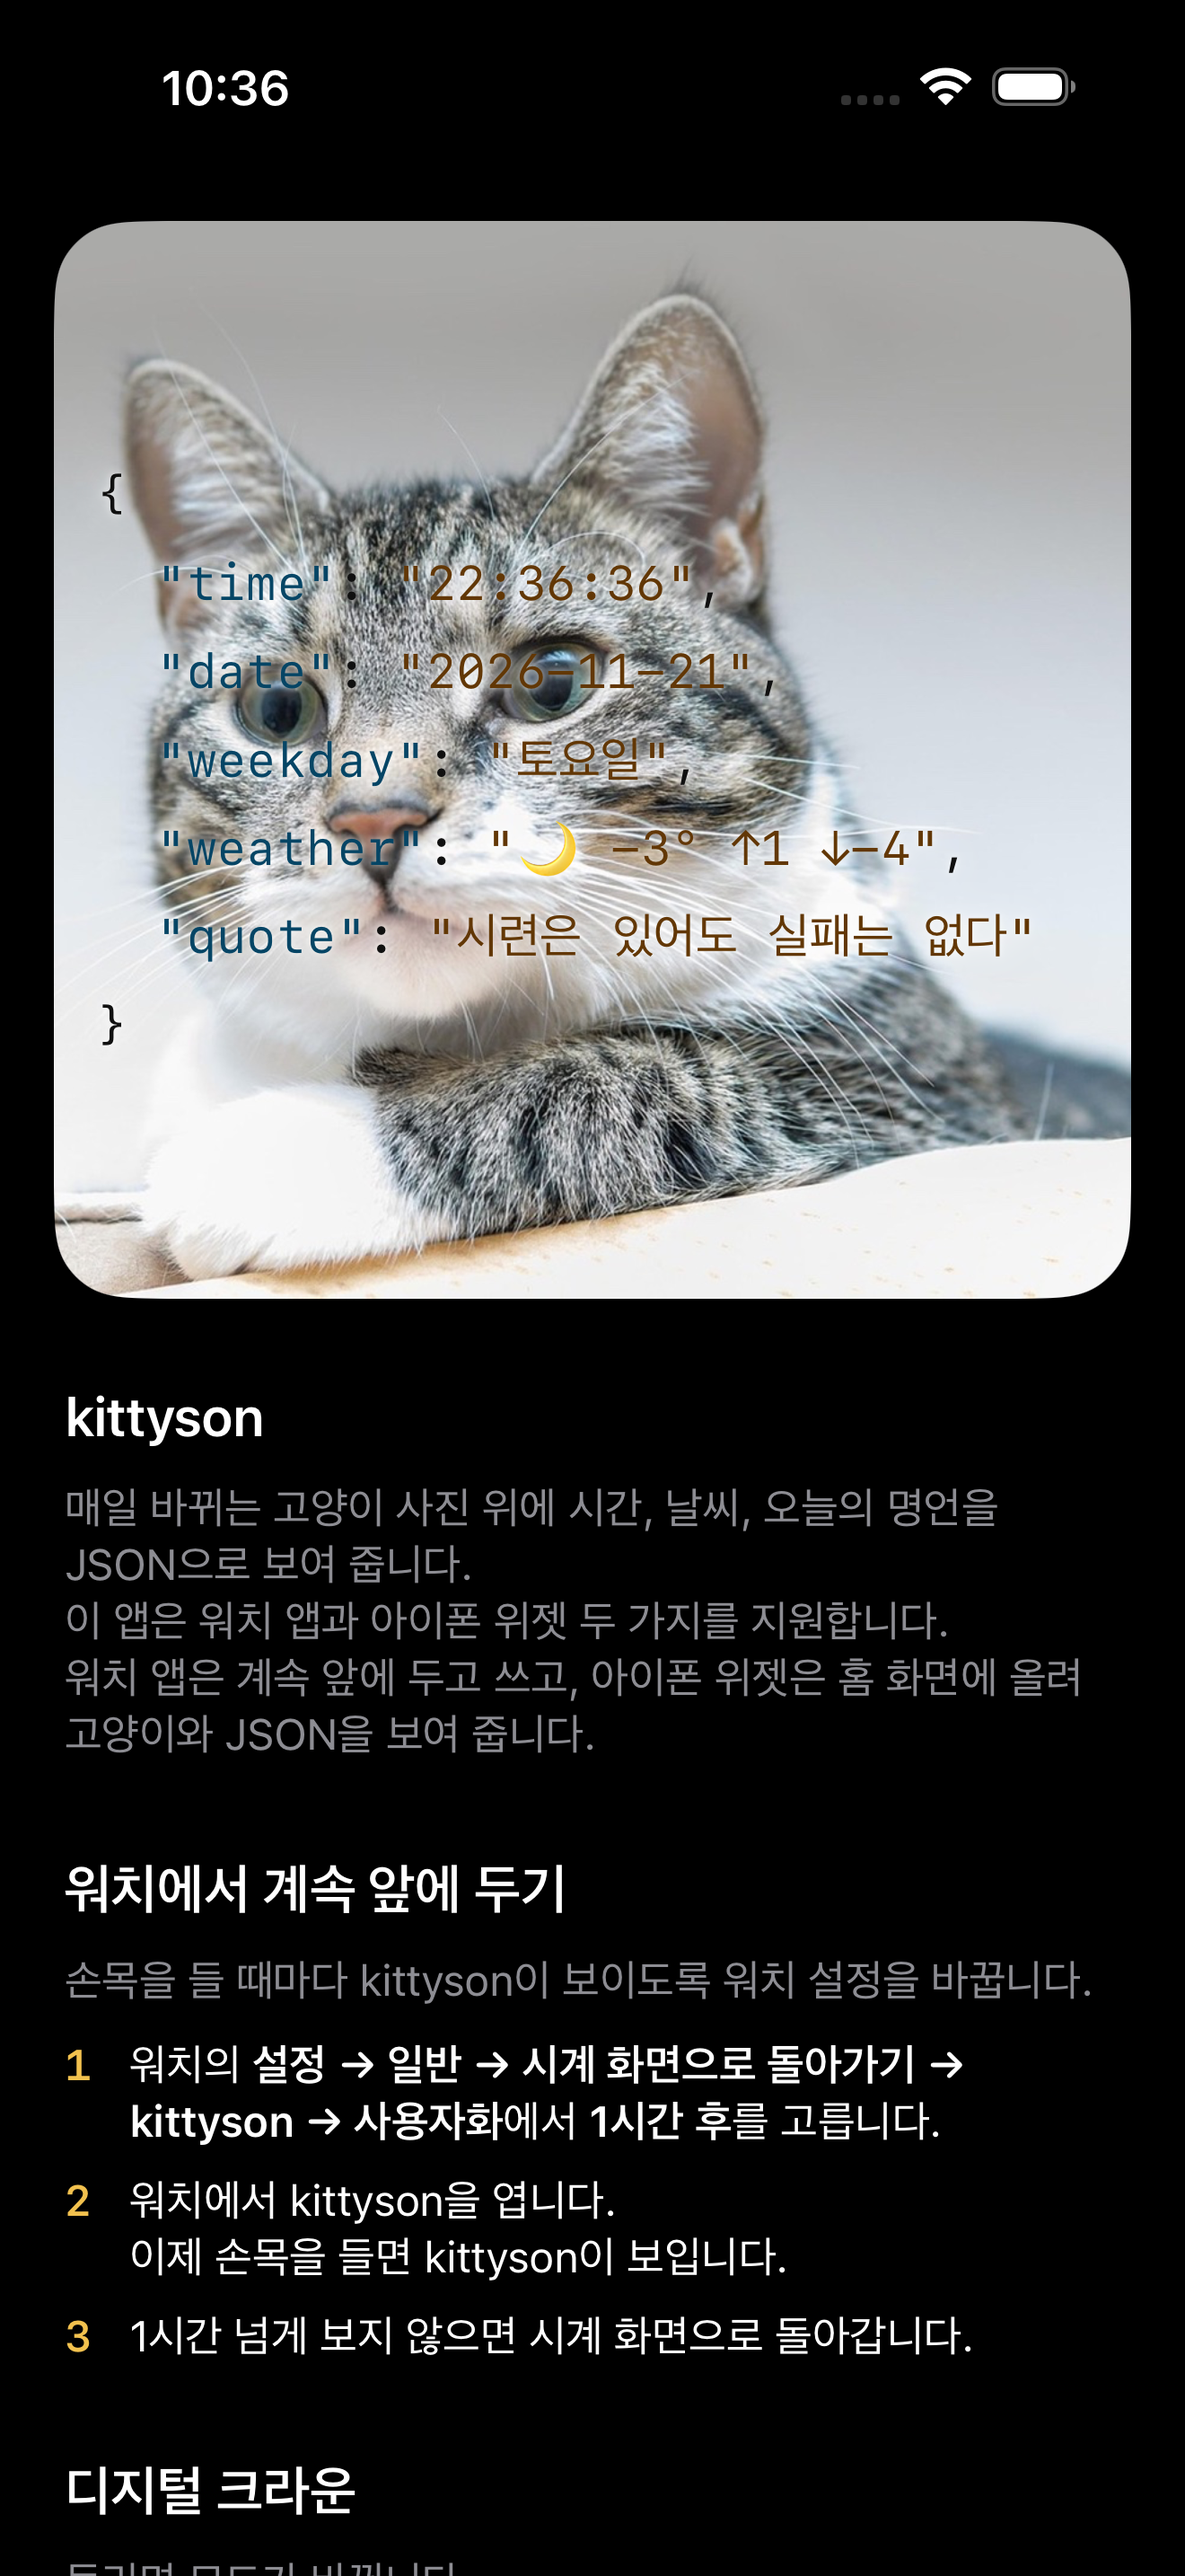
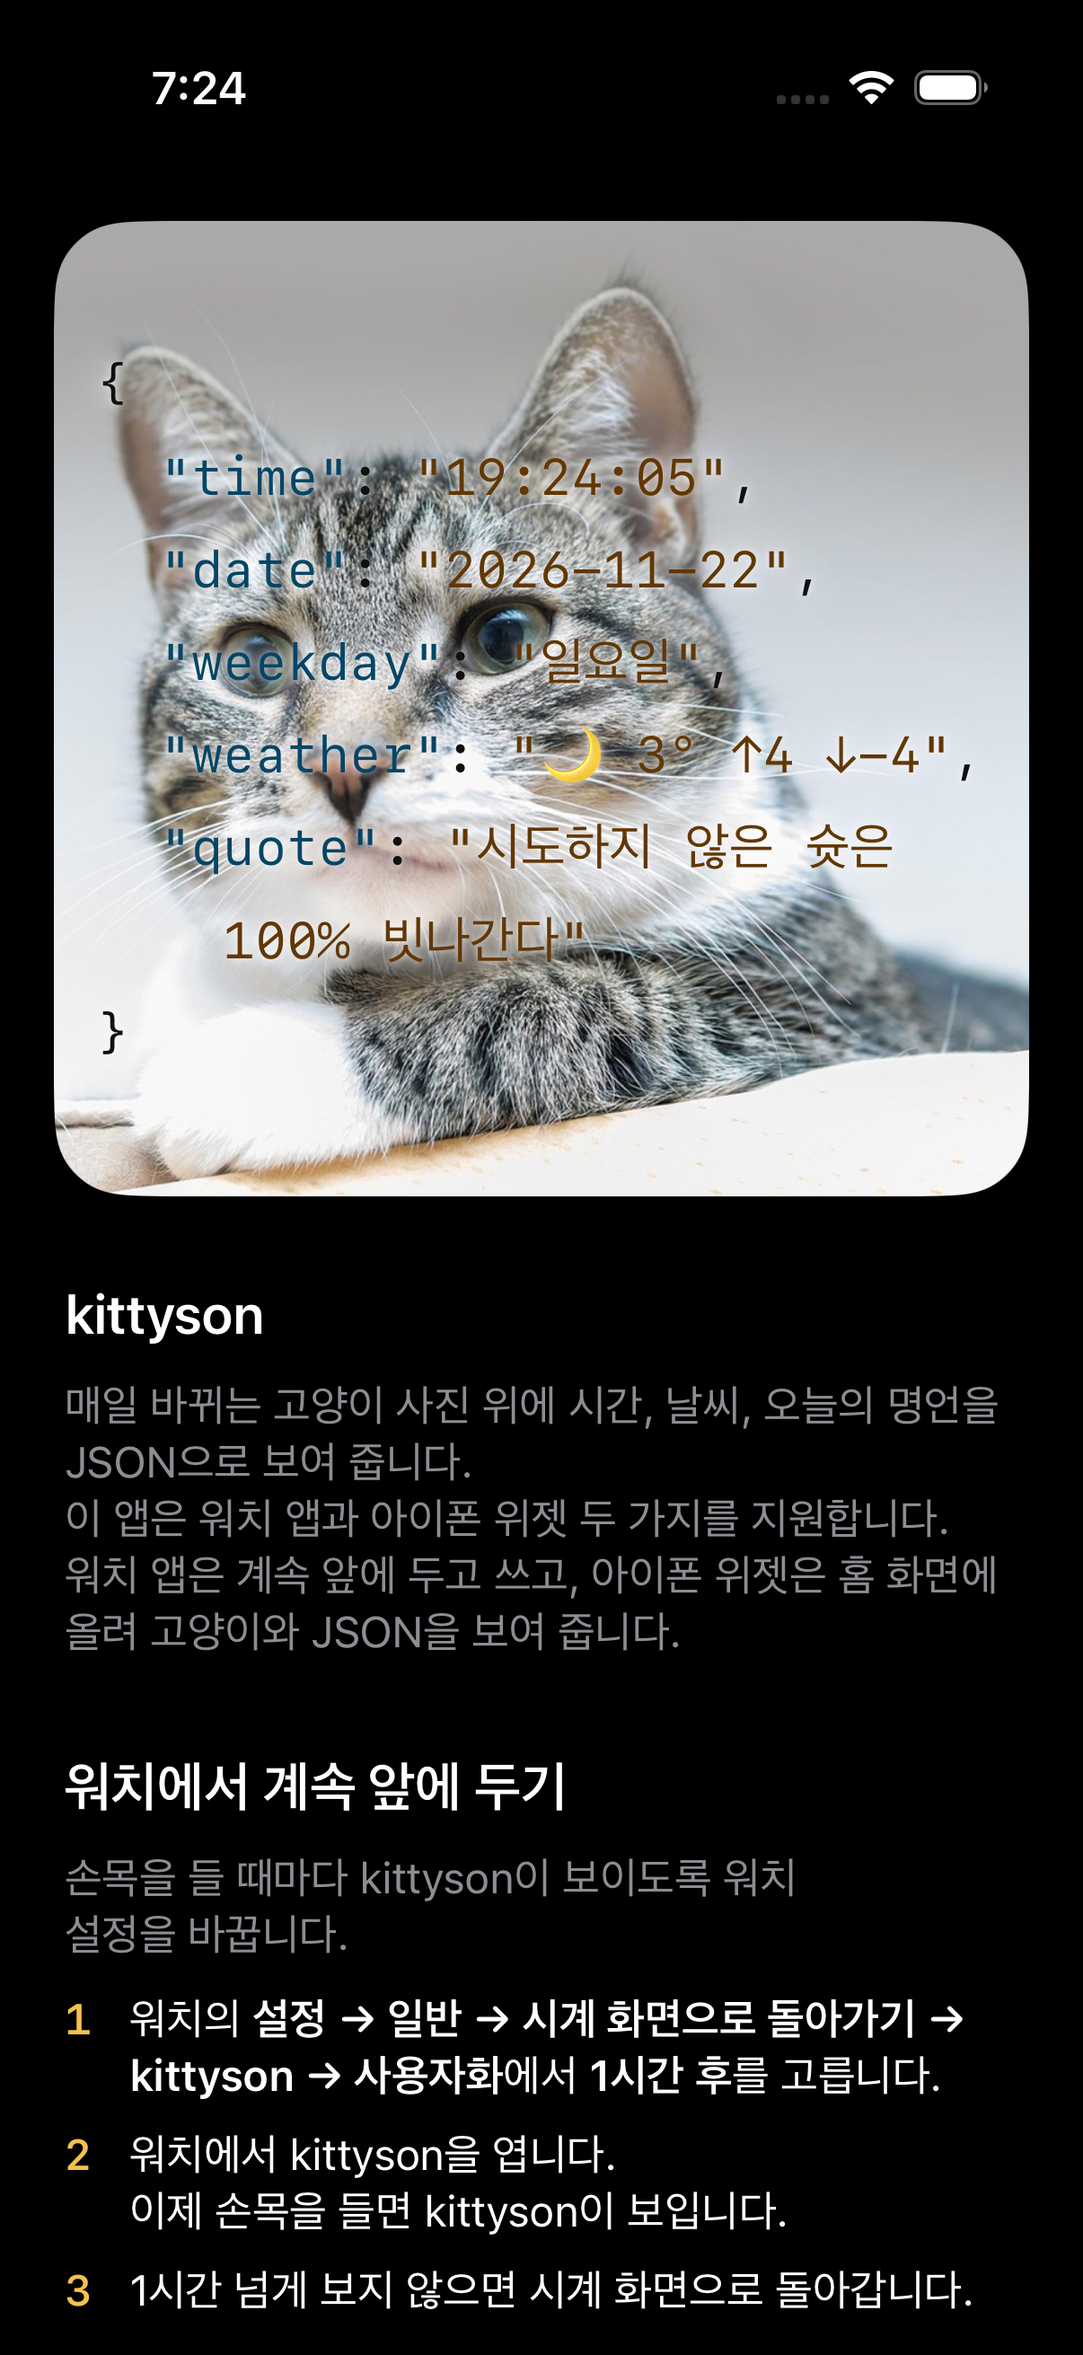
Match the store draft to what App Store Connect accepted
The iPhone screenshot slot takes 1206x2622, so both iPhone screenshots
are retaken on the iPhone 17 Pro. The description field refuses emoji,
so the weather line in the sample JSON says 맑음.

diff --git a/clients/apple/store/README.md b/clients/apple/store/README.md
@@ -30,7 +30,7 @@ JSON은 개발자가 데이터를 적을 때 쓰는 형식입니다. "weekday": 
   "time": "09:41:00",
   "date": "2026-11-21",
   "weekday": "토요일",
-  "weather": "☀ 12° ↑15 ↓7",
+  "weather": "맑음 12° ↑15 ↓7",
   "quote": "시련은 있어도 실패는 없다"
 }
 
@@ -48,6 +48,8 @@ iPhone 위젯
 • 고양이 사진과 명언은 하루에 한 번 바뀝니다.
 • 날씨는 서울 기준입니다.
 • 계정이 없고 개인정보를 모으지 않습니다.
+
+설명 칸은 이모지를 받지 않는다("invalid characters"). 그래서 날씨 줄의 ☀ 를 "맑음"으로 적었다.
 
 ## 키워드
 
@@ -69,5 +71,5 @@ The photo and the JSON come from our server at https://kit-son.site, which is pu
 
 | 파일 | 칸 | 크기 |
 |---|---|---|
-| iphone-1.png, iphone-2.png | iPhone 6.9" | 1320×2868 |
+| iphone-1.png, iphone-2.png | iPhone 6.3" (iPhone 17 Pro) | 1206×2622 |
 | watch-1-json.png, watch-2-timer.png, watch-3-count.png, watch-4-photo.png | Apple Watch Series 11 (46mm) | 416×496 |
